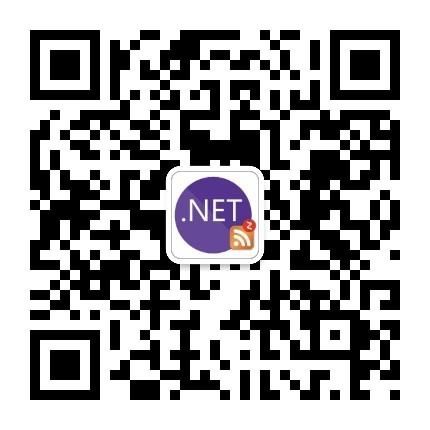
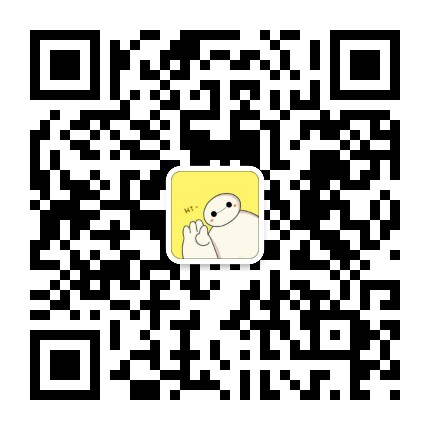
Updated.

Changed region(s): [[0.393, 0.393, 0.6047, 0.6047]]

diff --git a/_includes/copyright.html b/_includes/copyright.html
@@ -1,17 +1,17 @@
 <div>
    <p align="center">
          	  {% if page.copyright %}
-             <img src="//dev.tencent.com/u/legege007/p/jekyll-blog/git/raw/master/images/{{ page.copyright }}.jpg" >
+             <img src="//legege007.coding.net/p/jekyll-blog/git/raw/master/images/{{ page.copyright }}.jpg" >
             {% else %}
-             <img src="//dev.tencent.com/u/legege007/p/jekyll-blog/git/raw/master/images/dotnet.jpg" >
+             <img src="//legege007.coding.net/p/jekyll-blog/git/raw/master/images/qrcode_gzh.jpg" >
             {% endif %}
          <br/>
           一个有故事的程序员
    </p>
    <p align="center" style="margin-top: 15px; font-size: 11px;color: #cc0000;">
-       <strong>（转载本站文章请注明作者和出处 <a href="http://geekplayers.com">极客玩家-Bravo Yeung</a>）</strong>
+       <strong>（转载本站文章请注明作者和出处 <a href="http://geekplayers.com">大白技术控-Bravo Yeung-极客玩家</a>）</strong>
    </p>
    <p align="center" style="margin-top: 15px; font-size: 16px;color: #337ab7;">
-       <strong><a href="http://enjoy233.cn/" target="_blank">点击了解 ：.NET 技术人的网站</a></strong>
+       <strong><a href="http://geekplayers.com" target="_blank">点击了解 ：.NET 技术人的网站</a></strong>
    </p>
 </div>
